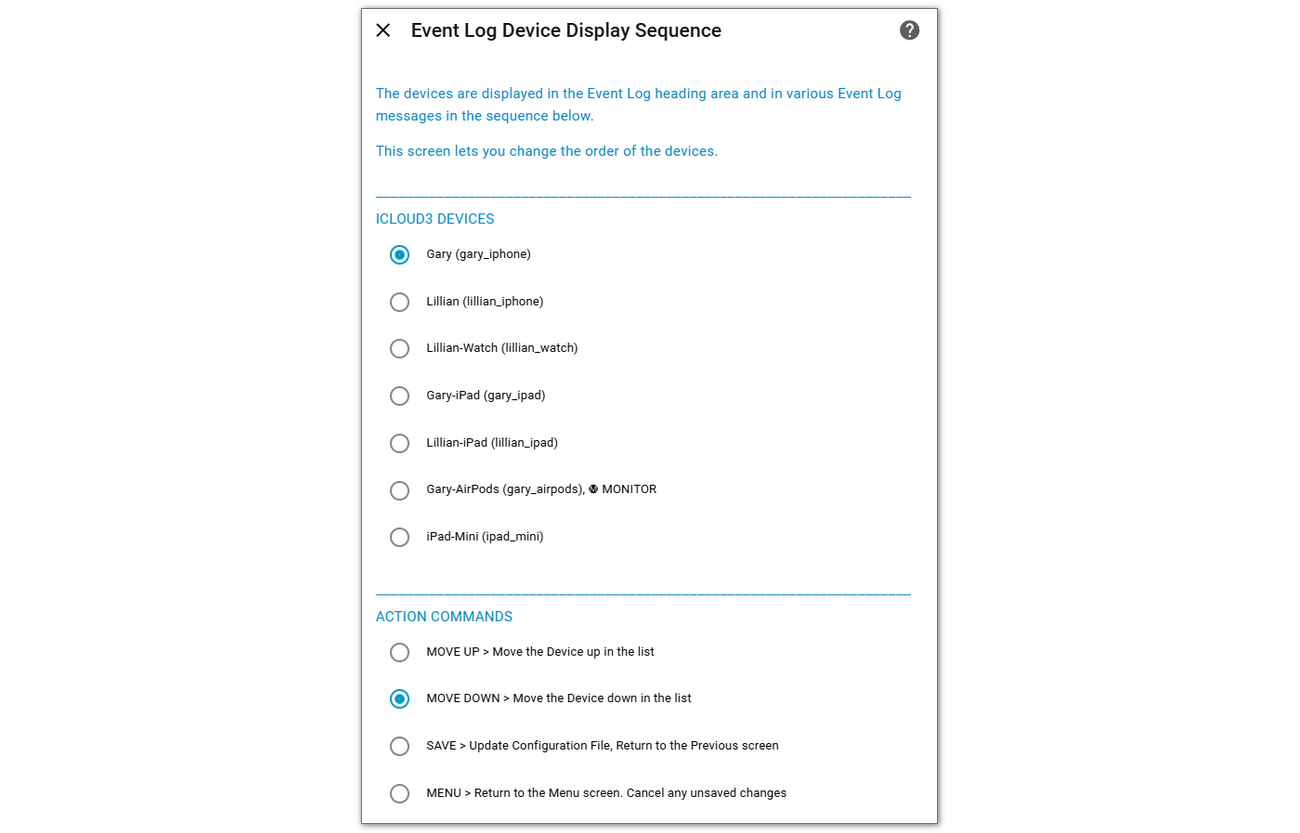
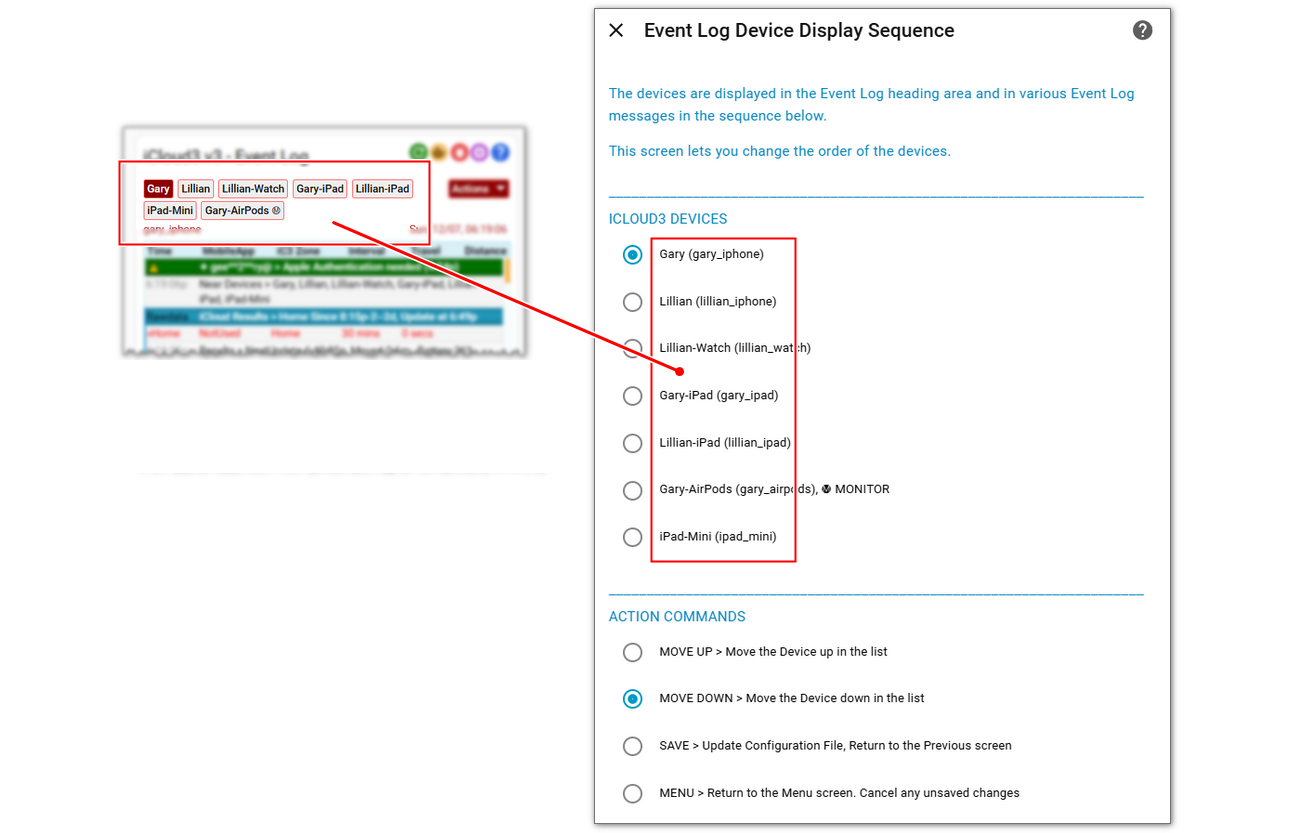
docs

diff --git a/docs/chapters/3_configure-devices.md b/docs/chapters/3_configure-devices.md
@@ -62,6 +62,9 @@ There are several parameters that further configure the device that are rarely u
 
 ## Change Event Log Device Order
 
-![](../images/device-order-evlog-names.png)
+The devices are listed in the Event Log in the order they are added (monitored devices are always last). They can be reordered on this screen.
+
+1. Select the device.
+2. Select *Move Up* or *Move Down*, then select *Submit*.
 
 ![](../images/device-order.png)
